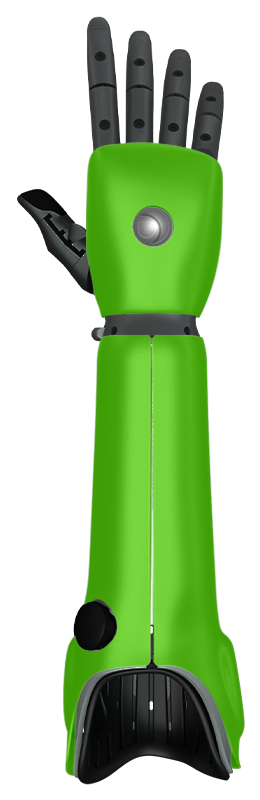
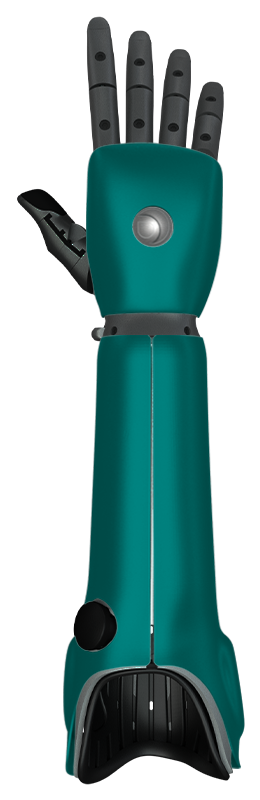
Add cover swatch section with animation

diff --git a/home/templates/home/index.html b/home/templates/home/index.html
@@ -7,6 +7,7 @@
 {% endblock %}
 
 {% block content %}
+    <!-- Hero image, welcome message, links to sign up and shop -->
     <section class="container-fluid container-hero">
         <div id="home-hero-image-1">
             <span class="sr-only"></span>
@@ -38,33 +39,35 @@
             </div>
         </div>
     </section>
-
-    <!-- Add cool animation if time! -->
+    <!-- Links to different types of covers (add cool animation if time at end of dev) -->
     <section class="container-compress black-border">
-        <div class="row p-0 m-0">
-            <div class="col-6 cover-tile black-border">
-                <img class="cover-tile-image" src="../media/covers/classic-green.png" alt="">
+        <div class="row p-0 m-0 bg-grey">
+            <!-- Classic covers -->
+            <div class="cover-tile col-4 black-border">
+                <img class="cover-tile-image" id="cover-tile-image-home-classic" src="../media/covers/classic-black.png" alt="">
             </div>
-            <div class="col-6 cover-tile black-border">
-                <h2>Classic covers!</h2>
-            </div>
-            <div class="col-6 cover-tile black-border">
-                <h2>Stylish covers!</h2>
-            </div>
-            <div class="col-6 cover-tile black-border">
-                <img class="cover-tile-image" src="../media/covers/classic-green.png" alt="">
-            </div>
-            <div class="col-6 cover-tile black-border">
-                <img class="cover-tile-image" src="../media/covers/classic-green.png" alt="">
-            </div>
-            <div class="col-6 cover-tile black-border">
-                <h2>Premium covers!</h2>
-            </div>
-            <div class="col-6 cover-tile black-border">
-                <h2>Disney covers!</h2>
-            </div>
-            <div class="col-6 cover-tile black-border">
-                <img class="cover-tile-image" src="../media/covers/classic-green.png" alt="">
+            <div class="cover-tile col-8 black-border">
+                <div class="cover-tile-info">
+                    <h2 class="my-2">Classic</h2>
+                    <!-- Interactive cover swatch -->
+                    <div>
+                        <div class="cover-swatch cover-swatch-black cover-swatch-active" id="cover-swatch-classic-black"></div>
+                        <div class="cover-swatch cover-swatch-white" id="cover-swatch-classic-white"></div>
+                        <div class="cover-swatch cover-swatch-red" id="cover-swatch-classic-red"></div>
+                        <div class="cover-swatch cover-swatch-orange" id="cover-swatch-classic-orange"></div>
+                        <div class="cover-swatch cover-swatch-silver" id="cover-swatch-classic-silver"></div>
+                        <div class="cover-swatch cover-swatch-blue" id="cover-swatch-classic-blue"></div>
+                        <div class="cover-swatch cover-swatch-green" id="cover-swatch-classic-green"></div>
+                        <div class="cover-swatch cover-swatch-pink" id="cover-swatch-classic-pink"></div>
+                        <div class="cover-swatch cover-swatch-yellow" id="cover-swatch-classic-yellow"></div>
+                        <div class="cover-swatch cover-swatch-bluegrey" id="cover-swatch-classic-bluegrey"></div>
+                        <div class="cover-swatch cover-swatch-purple" id="cover-swatch-classic-purple"></div>
+                        <div class="cover-swatch cover-swatch-pinkbright" id="cover-swatch-classic-pinkbright"></div>
+                    </div>
+                    <h3>From £129</h3>
+                    <a class="btn btn-dark my-2 d-sm-none" href="#" role="button">Shop</a>
+                    <a class="btn btn-dark my-2 d-none d-sm-inline-block" href="#" role="button">Shop classic</a>
+                </div>
             </div>
         </div>
     </section>
@@ -151,7 +154,8 @@
     </section>
 {% endblock %}
 
-<!-- { block postloadjs %}
+{% block postloadjs %}
 {{ block.super }}
-{ include 'home/includes/onload_animation.html' %}
-{ endblock %} -->
+{% include 'home/includes/onload_animation.html' %}
+{% include 'home/includes/cover_swatches.html' %}
+{% endblock %}

diff --git a/static/css/components.css b/static/css/components.css
@@ -128,14 +128,97 @@ a:hover {
 
 /* PRODUCTS */
 .cover-tile {
-    height: 400px;
     width: 100%;
+    text-align: center;
     padding: 10px;
     position: relative;
 }
 
 .cover-tile-image {
-    height: 100%;
+    height: 325px;
+}
+
+.cover-tile-info {
+    position: absolute;
+    top: 50%;
+    left: 50%;
+    transform: translate(-50%, -50%);
+    width: 80%;
+    text-align: center;
+}
+
+.cover-swatch {
+    height: 20px;
+    width: 20px;
+    border: solid 1px;
+    border-radius: 50%;
+    display: inline-block;
+    cursor: pointer;
+    transition: all .25s ease-in-out;
+}
+
+.cover-swatch-active, .cover-swatch:hover {
+    transform: scale(1.25);
+}
+
+.cover-swatch-black {
+    border-color: black;
+    background-color: black;
+}
+
+.cover-swatch-white {
+    border-color: black;
+    background-color: white;
+}
+
+.cover-swatch-red {
+    border-color: rgb(237, 28, 36);
+    background-color: rgb(237, 28, 36);
+}
+
+.cover-swatch-orange {
+    border-color: rgb(246, 140, 29);
+    background-color: rgb(246, 140, 29);
+}
+
+.cover-swatch-silver {
+    border-color: rgb(194, 194, 196);
+    background-color: rgb(194, 194, 196);
+}
+
+.cover-swatch-blue {
+    border-color: rgb(57, 94, 171);
+    background-color: rgb(57, 94, 171);
+}
+
+.cover-swatch-green {
+    border-color: rgb(0, 131, 127);
+    background-color: rgb(0, 131, 127);
+}
+
+.cover-swatch-pink {
+    border-color: rgb(236, 140, 130);
+    background-color: rgb(236, 140, 130);
+}
+
+.cover-swatch-yellow {
+    border-color: rgb(249, 214, 5);
+    background-color: rgb(249, 214, 5);
+}
+
+.cover-swatch-bluegrey {
+    border-color: rgb(74, 100, 123);
+    background-color: rgb(74, 100, 123);
+}
+
+.cover-swatch-purple {
+    border-color: rgb(124, 115, 181);
+    background-color: rgb(124, 115, 181);
+}
+
+.cover-swatch-pinkbright {
+    border-color: rgb(223, 5, 135);
+    background-color: rgb(223, 5, 135);
 }
 
 /* MEDIA QUERIES */

diff --git a/home/templates/home/includes/cover_swatches.html b/home/templates/home/includes/cover_swatches.html
@@ -1,0 +1,12 @@
+<script type="text/javascript">
+    $(document).ready(function() {
+        $(".cover-swatch").click(function() {
+            $(".cover-swatch").removeClass("cover-swatch-active");
+            var coverColour = this.id.split('-')[3];
+            var coverType = this.id.split('-')[2];
+            var imageSrc = `../media/covers/${coverType}-${coverColour}.png`;
+            $(this).addClass("cover-swatch-active");
+            $(`#cover-tile-image-home-${coverType}`).attr("src", imageSrc);
+        });
+    });
+</script>
